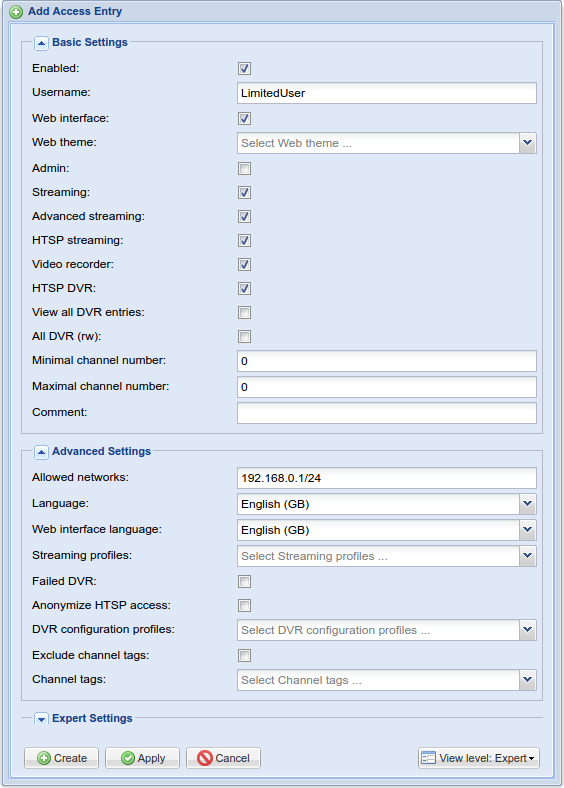
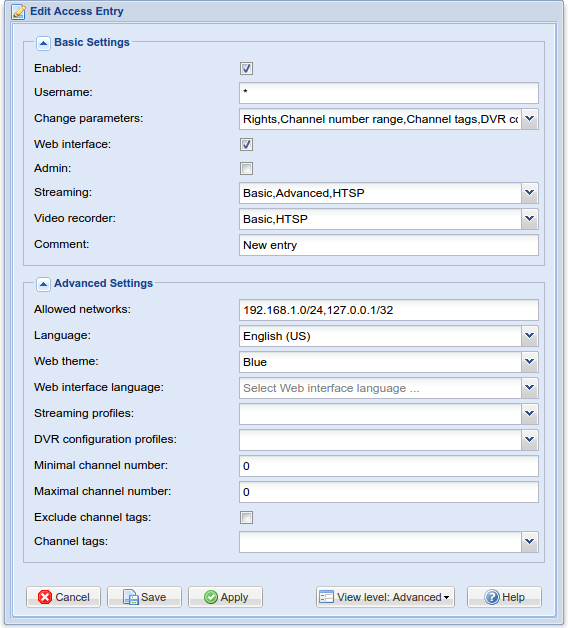
mdhelp: clean up the access doc, update screenshots

diff --git a/src/access.c b/src/access.c
@@ -1418,7 +1418,7 @@ static idnode_slist_t access_entry_class_change_slist[] = {
   },
   {
     .id   = "change_chrange",
-    .name = N_("Channel range"),
+    .name = N_("Channel number range"),
     .off  = offsetof(access_entry_t, ae_change_chrange),
   },
   {
@@ -1591,6 +1591,7 @@ PROP_DOC(themes)
 PROP_DOC(connection_limit)
 PROP_DOC(persistent_viewlevel)
 PROP_DOC(streaming_profile)
+PROP_DOC(change_parameters)
 
 const idclass_t access_entry_class = {
   .ic_class      = "access",
@@ -1640,7 +1641,8 @@ const idclass_t access_entry_class = {
       .islist   = 1,
       .id       = "change",
       .name     = N_("Change parameters"),
-      .desc     = N_("Specify the parameters to be changed."),
+      .desc     = N_("Specify the parameters to be changed. See Help for details."),
+      .doc      = prop_doc_change_parameters,
       .list     = access_entry_class_change_enum,
       .get      = access_entry_class_change_get,
       .set      = access_entry_class_change_set,
@@ -1703,7 +1705,7 @@ const idclass_t access_entry_class = {
       .id       = "streaming",
       .name     = N_("Streaming"),
       .desc     = N_("Streaming flags, allow/disallow HTTP streaming, "
-                     "advanced HTTP streming (e.g, direct service or mux links), "
+                     "advanced HTTP streaming (e.g, direct service or mux links), "
                      "HTSP protocol streaming (e.g, Kodi (via pvr.hts) or Movian."),
       .list     = access_entry_class_streaming_enum,
       .get      = access_entry_class_streaming_get,

diff --git a/docs/class/access_entry.md b/docs/class/access_entry.md
@@ -3,20 +3,19 @@ is initially wide open**.
 
 Tvheadend verifies access by scanning through all enabled access control
 entries in sequence, from the top of the list to the bottom. The permission
-flags, streaming profiles, DVR config profiles, channel tags, channel
-number ranges are combined for all matching access entries if allowed using
-the change flag. If the parameter is empty (permission
-flags, all types of profiles, channel tags and ranges) in an access
-control entry and the parameter change flag is turned on,
-the parameter (value, list or range) is cleared (unset).
+flags, streaming profiles, DVR config profiles, channel tags, and channel
+number ranges are combined for all matching access entries. You can 
+control which parameters are merged (on a per-entry basis), see 
+*Change parameters* [below](#items) for details. 
 
-An access entry is said to match if the username matches and the IP
-source address of the requesting peer is within the prefix. There is also
-anonymous access, if the user is set to asterisk. Only network prefix is
-matched then.
+An access entry is said to match if the username and the IP source 
+address of the requesting peer is within the prefix (*Allowed networks*).
+Wildcard ([anonymous](#anonymous-access)) accounts are matched using the 
+prefix only.
 
-*The order of entries is really important!* It is recommended to put the
-wildcards on top of the entries and the special permissions to the bottom.
+*The order of entries is **extremely** important!* It's recommended 
+that you put the wildcard (asterisk `*`) accounts at top and all other 
+accounts (with special permissions) at the bottom.
 
 !['Access Entries Grid'](static/img/doc/accessentriesgrid.png)
 
@@ -40,12 +39,12 @@ Button                 | Function
 
 ####Example
 
-This is an example of a limited user account entry.
+This is an example of a limited user entry.
 
 !['Access Entry Example'](static/img/doc/accessentriesnewuser.png)
 
-Remember to also create a password entry for the user in the 
-*[Passwords](class/passwd)* tab!
+Remember to also add a password entry in the 
+*[Passwords](class/passwd)* tab - not required for wildcard accounts. 
 
 **Tips**:
 * Be as limiting as possible especially when making Tvheadend available 

diff --git a/docs/property/change_parameters.md b/docs/property/change_parameters.md
@@ -1,0 +1,29 @@
+:
+
+Allows you to control which parameters are merged. If the 
+*Change parameters* flag is turned on and a parameter 
+(permission flags, all types of profiles, channel tags and ranges)
+for an entry is not set the parameter (value, list or range) is cleared 
+(unset). This allows the previous/next matching entry in the sequence to set 
+it.
+
+For example, say you have a wildcard account with the theme set to Gray, 
+and an admin account with the Blue theme. Unchecking the theme checkbox 
+for the admin user would mean that the theme from the last matching 
+entry (which in this case would be the wildcard account) applies instead.
+
+Option                     | Description/Properties
+---------------------------|---------------------------
+**Rights**                 | *Streaming*, *Web interface*, *Video recorder* (DVR), *Admin* and *Anonymize HTSP access*.
+**Channel number range**   | *Minimal channel number* and *Maximal channel number*.
+**Channel tags**           | *Exclude channel tags* and *Channel tags*.
+**DVR configurations**     | *DVR configuration profiles*.
+**Streaming profiles**     | *Streaming profiles*.
+**Connection limits**      | *Connection limit type* and *Limit connections*.
+**Language**               | *Language*.
+**Web interface language** | *Web interface language*.
+**Theme**                  | *Theme*.
+**User interface level**   | *User interface level*.
+
+The above table displays the *Change parameters* option name and the fields that it 
+applies to, as shown in add/edit dialog(s).
